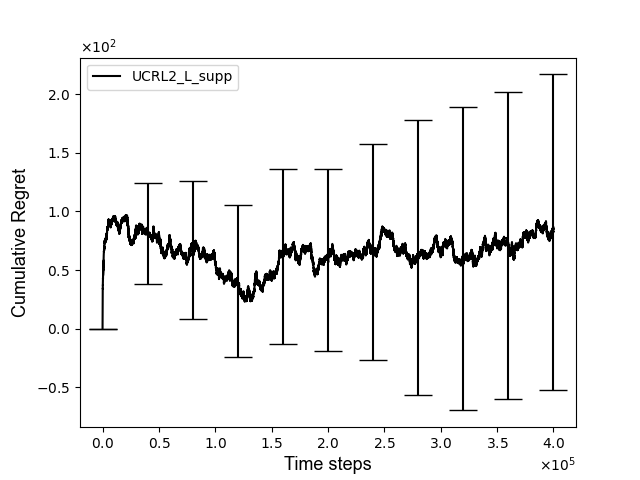
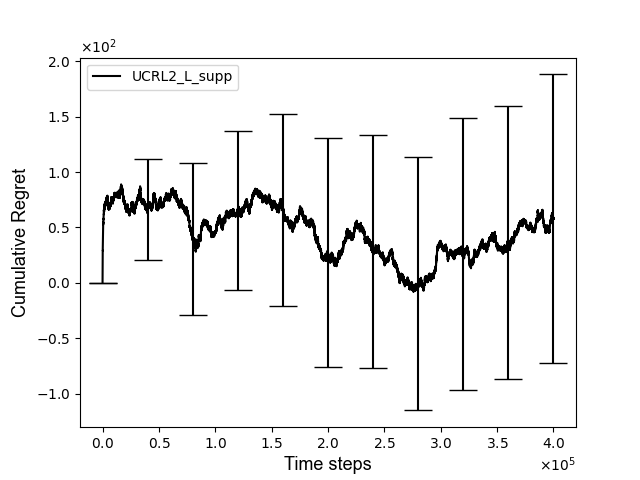
Completed without convergence ex4

diff --git a/Home Assignment 8/Code/ex4-UCRL2_L.py b/Home Assignment 8/Code/ex4-UCRL2_L.py
@@ -411,7 +411,7 @@ class UCRL2_L_supp(UCRL2_L):
 		self.policy = self.EVI_supp()
 
 	# Modified Extended Value Iteration that will use our new max_proba_supp function.
-	def EVI_supp(self, max_iter=2*10**2, epsilon=1e-2):
+	def EVI_supp(self, max_iter=2*10**3, epsilon=1e-2):
 		niter = 0
 		sorted_indices = np.arange(self.nS)
 		action_noise = [(np.random.random_sample() * 0.1 * min(1e-6, epsilon)) for _ in range(self.nA)]
